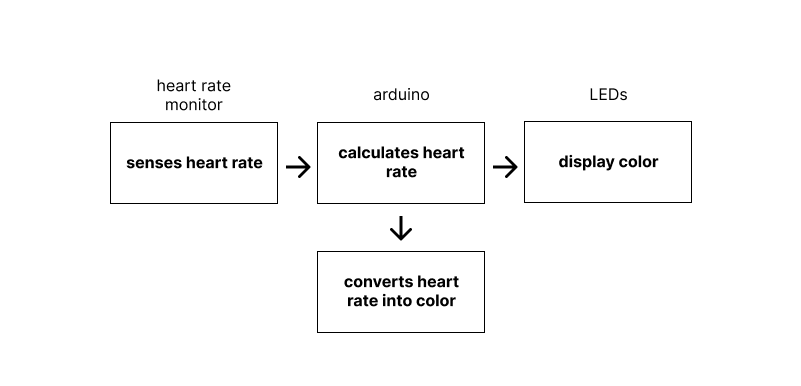
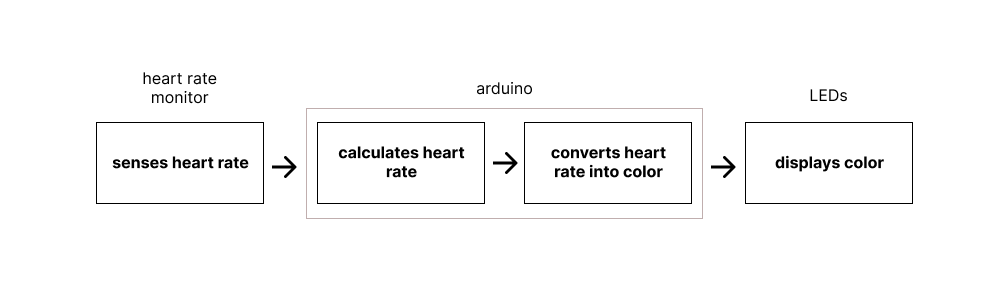
updated homepage

diff --git a/portfolio-details.html b/portfolio-details.html
@@ -5,7 +5,7 @@
   <meta charset="utf-8">
   <meta content="width=device-width, initial-scale=1.0" name="viewport">
 
-  <title>Portfolio Details - Folio Bootstrap Template</title>
+  <title>Project Details</title>
   <meta content="" name="description">
   <meta content="" name="keywords">
 
@@ -40,11 +40,11 @@
   <header id="header" class="fixed-top header-inner-pages">
     <div class="container d-flex align-items-center justify-content-between">
 
-      <a href="index.html" class="logo"><img src="assets/img/logo.png" alt="" class="img-fluid"></a>
+      <!-- <a href="index.html" class="logo"><img src="assets/img/logo.png" alt="" class="img-fluid"></a> -->
       <!-- Uncomment below if you prefer to use an text logo -->
       <!-- <h1 class="logo"><a href="index.html">Folio</a></h1> -->
 
-      <nav id="navbar" class="navbar">
+      <!-- <nav id="navbar" class="navbar">
         <ul>
           <li><a class="nav-link scrollto " href="#hero">Home</a></li>
           <li><a class="nav-link scrollto" href="#about">About</a></li>
@@ -70,7 +70,8 @@
           <li><a class="nav-link scrollto" href="#contact">Contact</a></li>
         </ul>
         <i class="bi bi-list mobile-nav-toggle"></i>
-      </nav><!-- .navbar -->
+      </nav> -->
+      <!-- .navbar -->
 
     </div>
   </header><!-- End Header -->
@@ -82,11 +83,11 @@
       <div class="container">
 
         <div class="d-flex justify-content-between align-items-center">
-          <h2>Portfolio Details</h2>
+          <h2>Project Details</h2>
           <ol>
             <li><a href="index.html">Home</a></li>
-            <li><a href="portfolio.html">Portfolio</a></li>
-            <li>Portfolio Details</li>
+            <!-- <li><a href="portfolio.html">Portfolio</a></li> -->
+            <li>Project Details</li>
           </ol>
         </div>
 
@@ -118,17 +119,18 @@
               <p>
                 The scene: Have you ever been to a silent disco with multiple channels? If not, here is an illustration of how it works. Everyone has on headphones where they can select one of three channels to listen to. When you select a channel, the sides of the headphones light up, so everyone around you knows what music you are listening to. The music on each channel is of different tempos and genres so it can be a bit of a bonding moment when you see someone with the same color as you. 
               </p>
-              <img src="assets/img/portfolio/portfolio-1.jpg" alt="test">
+              <img src="assets/img/portfolio/headphones.png" alt="headphones">
               <p>
-              This idea builds on that concept with another glowing element. The wearer has a heart rate indicator in the form of an LED pin or face sticker. It changes color for a given heart rate threshold. Wearers can see who is their threshold. Another area of exploration is to see if the music channel being listened to is correlated with heart rate. 
+              This project idea builds on that concept with another glowing element. The wearer has a heart rate indicator in the form of an LED pin or face sticker. It changes color for a given heart rate threshold. Wearers can see who is their threshold. Another area of exploration is to see if the music channel being listened to is correlated with heart rate. 
               </p>
-              <h5>Project elements</h5>
+              <img src="assets/img/portfolio/sticker-kit.png" alt="sticker kit">
               <br>
-              <ol>
-                <li>3D design and fabrication: Heart sticker / pin </li>
-                <li>Electronics: Heart rate monitor (input), LEDs (output)</li>
-                <li>Microcontroller programming: Changing colors???</li>
-              </ol>
+              <br>
+              <br>
+              <br>
+              <h5>Project elements</h5>
+              <img class="img-wide" src="assets/img/portfolio/diagram.png" alt="sticker kit">
+              <br>
             </div>
             <div class="portfolio-description">
               <h2>Idea 2</h2>

diff --git a/index.html b/index.html
@@ -83,7 +83,8 @@
 
     <div class="container">
       <div class="hero-content">
-        <h1>I'm <span class="typed" data-typed-items="Alexandra Weiner"></span></h1>
+        <h1>PS70</h1>
+        <!-- <h1>I'm Alexandra Weiner <span class="typed" data-typed-items="Alexandra Weiner"></span></h1> -->
         <!-- <p>Designer, Developer, Freelancer, Photographer</p> -->
 
         <!-- <ul class="list-unstyled list-social">
@@ -114,8 +115,8 @@
           <div class="col-lg-7">
             <div class="about-descr">
 
-              <p class="p-heading"> I am a student in the Master of Design Engineering</p>
-              <p class="separator"> Because I come from a design and business background, I know more about digital product design, behavioral insights, and business building, but less about digital fabrication. I have been tinkering around in the SEC makerspace and am excited to learn how fabricate more things via PS70! </p>
+              <p class="p-heading"> Class projects by Al Weiner</p>
+              <p class="separator"> I am a student in the Master of Design EngineeringI come from a design and business background and worked in digital product design, behavioral insights, and business building. I have been tinkering around in the SEC makerspace and am excited to learn how fabricate more things via PS70! </p>
 
             </div>
 
@@ -335,11 +336,11 @@
           </div>
 
           <div class="col-lg-4 col-md-6 portfolio-item filter-app">
-            <img src="assets/img/portfolio/portfolio-6.jpg" class="img-fluid" alt="">
+            <img src="assets/img/portfolio/sticker.png" class="img-fluid" alt="person wearing LED face sticker">
             <div class="portfolio-info">
-              <h4>App 3</h4>
-              <p>App</p>
-              <a href="assets/img/portfolio/portfolio-6.jpg" data-gallery="portfolioGallery" class="portfolio-lightbox preview-link" title="App 3"><i class="bx bx-plus"></i></a>
+              <h4>Final Project Ideas</h4>
+              <p>3 ideas :)</p>
+              <a href="assets/img/portfolio/sticker.png" class="portfolio-lightbox preview-link" title="Final Project Ideas"><i class="bx bx-plus"></i></a>
               <a href="portfolio-details.html" class="details-link" title="More Details"><i class="bx bx-link"></i></a>
             </div>
           </div>
@@ -437,7 +438,7 @@
               </div>
             </div>
 
-            <div class="col-lg-6">
+            <!-- <div class="col-lg-6">
               <form action="forms/contact.php" method="post" role="form" class="php-email-form">
                 <div class="row gy-3">
 
@@ -481,7 +482,9 @@
           </div>
         </div>
       </div>
-    </div><!-- End Contact Section -->
+    </div> -->
+    
+    <!-- End Contact Section -->
 
   </main><!-- End #main -->
 

diff --git a/assets/css/style.css b/assets/css/style.css
@@ -55,7 +55,7 @@ a:hover {
 p {
   margin: 25px 0;
   padding: 0;
-  font-size: 15px;
+  font-size: 18px;
   color: #999999;
   line-height: 28px;
 }
@@ -793,6 +793,20 @@ p {
 
 .portfolio-details .portfolio-description p {
   padding: 0;
+}
+
+.portfolio-details .portfolio-description img {
+  width: 50%;
+}
+
+.portfolio-details .portfolio-description .img-wide {
+  width: 100%;
+}
+
+.img-fluid {
+  max-width: 100%;
+  height: 250px;
+  width: 500px;
 }
 
 /*--------------------------------------------------------------
